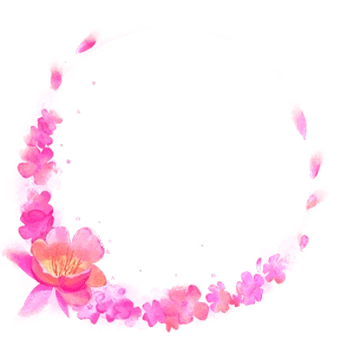
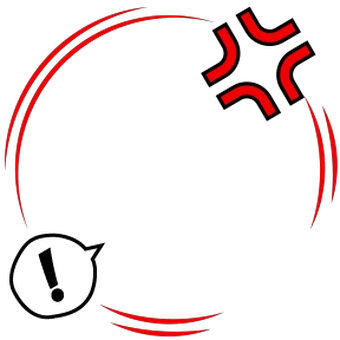
Profile Design: aktualny profil (Dark Roses), odznaki max-tier, podgląd nameplate'u w kontekście
Patryk zmienił swój profil na Discordzie na ciemny motyw z dekoracją Gothica
Dark Roses (Black) — dociągnięty nowy avatar/baner/dekoracja przez REST API
(nowywygladtest-bot), kolory karty przeliczone na ciemny/bursztynowy motyw.
Nameplate 'Dark Roses' namierzony na CDN (nameplates/gothica/dark_roses) po
kilkunastu próbach slugów. Dodany rząd odznak na maksymalnym poziomie: Nitro
(Opal), Nitro Gifting (Legend), Server Boosting (2 lata), wiek konta
(Primordial, 10+ lat) — realne ikony Discorda znalezione przez katalog
mezotv/discord-badges. Panel obok pokazuje teraz nazwę i uchwyt NAŁOŻONE na
teksturę nameplate'u (jak realnie wygląda w profilu), zamiast gołej tekstury.

diff --git a/styles.css b/styles.css
@@ -275,9 +275,9 @@ html:not(.has-device) .step { min-height: 0; padding-block: 36px; }
 .svc-art-profile { background: none; box-shadow: none; display: grid; gap: 18px; }
 @media (min-width: 861px) { .svc-art-profile { grid-template-columns: auto minmax(0, 1fr); align-items: start; } }
 .pf-mock {
-  /* kolory zdjęte z prawdziwego profilu na Discordzie (jasny motyw, sam ustawił) */
-  --pf-bg-1: #f3e2f2; --pf-bg-2: #eeddee; --pf-ink: #241a26; --pf-ink-2: #5a4a5c;
-  --pf-name-1: #e2a8dd; --pf-name-2: #c56ec0; --pf-chip-bg: #d9c2d8; --pf-line: rgba(40, 20, 45, .12);
+  /* kolory zdjęte z aktualnego profilu na Discordzie (ciemny motyw, Nameplate Dark Roses) */
+  --pf-bg-1: #100c0d; --pf-bg-2: #060404; --pf-ink: #f3f1ef; --pf-ink-2: #a89f9c;
+  --pf-name-1: #d0996a; --pf-name-2: #97613a; --pf-chip-bg: #1c1c1d; --pf-line: rgba(255, 255, 255, .1);
   width: 100%; max-width: 300px; margin-inline: auto; border-radius: 18px; overflow: hidden;
   background: linear-gradient(190deg, var(--pf-bg-1), var(--pf-bg-2));
   box-shadow: 0 0 0 1px var(--line), 0 30px 60px -24px rgba(0, 0, 0, .7);
@@ -293,18 +293,22 @@ html:not(.has-device) .step { min-height: 0; padding-block: 36px; }
 .pf-clan { display: inline-flex; align-items: center; gap: 3px; font: 700 11px/1 var(--body); color: var(--pf-ink); background: var(--pf-chip-bg); padding: 3px 7px 3px 4px; border-radius: 999px; }
 .pf-clan img { width: 14px; height: 14px; }
 .pf-status { font-size: 13px; color: var(--pf-ink-2); margin-top: 3px; }
+.pf-badges { display: flex; flex-wrap: wrap; gap: 6px; margin-top: 10px; }
+.pf-badges img { width: 22px; height: 22px; object-fit: contain; }
 .pf-about { margin-top: 14px; padding-top: 12px; border-top: 1px solid var(--pf-line); font-size: 13px; line-height: 1.5; color: var(--pf-ink); }
 .pf-about span { display: block; font: 700 10.5px/1 var(--body); letter-spacing: .06em; color: var(--pf-ink-2); margin-bottom: 6px; }
-.pf-extra { display: grid; gap: 14px; width: 100%; max-width: 300px; margin-inline: auto; }
+.pf-extra { display: grid; width: 100%; max-width: 300px; margin-inline: auto; }
 @media (min-width: 861px) { .pf-extra { max-width: none; } }
 .pf-extra-h { display: block; font: 700 11px/1 var(--body); letter-spacing: .06em; text-transform: uppercase; color: var(--muted); margin-bottom: 8px; }
-.pf-deco-list, .pf-palette { padding: 14px 16px; border-radius: 16px; background: var(--surface-2); box-shadow: 0 0 0 1px var(--line); }
-.pf-deco-list ul { display: grid; gap: 6px; }
-.pf-deco-list li { position: relative; padding-left: 14px; font-size: 13.5px; color: var(--ink-2); line-height: 1.4; }
-.pf-deco-list li::before { content: ""; position: absolute; left: 0; top: 7px; width: 5px; height: 5px; border-radius: 50%; background: var(--p2); }
-.pf-deco-list em { color: var(--ink-3); }
-.pf-swatches { display: flex; flex-wrap: wrap; gap: 8px; }
-.pf-swatches span { width: 28px; height: 28px; border-radius: 9px; background: var(--c); box-shadow: inset 0 0 0 1px rgba(255, 255, 255, .12); cursor: default; }
+.pf-nameplate-look { padding: 14px 16px 16px; border-radius: 16px; background: var(--surface-2); box-shadow: 0 0 0 1px var(--line); }
+.pf-np-demo { position: relative; aspect-ratio: 15 / 7; border-radius: 10px; overflow: hidden; background: #060404; box-shadow: 0 0 0 1px var(--line); }
+.pf-np-bg { position: absolute; inset: 0; width: 100%; height: 100%; object-fit: cover; }
+.pf-np-text { position: absolute; left: 14px; right: 14px; bottom: 10px; }
+.pf-np-name { font: 700 17px/1.2 var(--display); letter-spacing: -.02em; background: linear-gradient(100deg, #d0996a, #97613a); -webkit-background-clip: text; background-clip: text; color: transparent; text-shadow: 0 1px 12px rgba(0, 0, 0, .5); }
+.pf-np-handle { margin-top: 2px; font-size: 12.5px; color: #d8d2cd; text-shadow: 0 1px 8px rgba(0, 0, 0, .6); }
+.pf-np-caption { margin-top: 10px; font: 700 15px/1.2 var(--display); letter-spacing: -.01em; color: var(--ink); }
+.pf-np-caption em { color: var(--ink-2); font-weight: 500; }
+.pf-np-sub { margin-top: 6px; font-size: 13.5px; line-height: 1.5; color: var(--ink-2); }
 .svc-caption { grid-column: 1 / -1; font-size: 13px; color: var(--ink-3); text-align: center; }
 
 /* voice actorzy: fala dźwiękowa */

diff --git a/index.html b/index.html
@@ -145,29 +145,27 @@
             <span class="pf-nitro">NITRO</span>
             <p class="pf-name"><span class="pf-name-text">Yksoftiee</span><span class="pf-clan"><img src="assets/profil/badge-ss.webp" alt="">SS</span></p>
             <p class="pf-status">meow :3</p>
+            <div class="pf-badges">
+              <img src="assets/profil/badge-nitro.svg" alt="" title="Nitro">
+              <img src="assets/profil/badge-gift.webp" alt="" title="Nitro Gifting — poziom Legend (maks.)">
+              <img src="assets/profil/badge-boost.svg" alt="" title="Server Boosting — 2 lata (maks.)">
+              <img src="assets/profil/badge-age.svg" alt="" title="Wiek konta — Primordial, 10+ lat (maks.)">
+            </div>
             <div class="pf-about"><span>TUTAJ MNIE ZNAJDZIESZ</span>.gg/SakuraStudio</div>
           </div>
         </div>
         <div class="pf-extra">
-          <div class="pf-deco-list">
-            <span class="pf-extra-h">Dekoracje w&nbsp;tym profilu</span>
-            <ul>
-              <li>Kwiatowa ramka awatara <em>(Sakura)</em></li>
-              <li>Nameplate „I'm&nbsp;Watching Yooooou, Treat!”</li>
-              <li>Gradientowa nazwa</li>
-              <li>Znacznik gildii „SS” — Sakura Studio™</li>
-            </ul>
-          </div>
-          <div class="pf-palette">
-            <span class="pf-extra-h">Kolorystyka</span>
-            <div class="pf-swatches">
-              <span style="--c:#f3e2f2" title="#f3e2f2 — tło profilu"></span>
-              <span style="--c:#c56ec0" title="#c56ec0 — nazwa"></span>
-              <span style="--c:#fe4bad" title="#fe4bad — dekoracja"></span>
-              <span style="--c:#d183ee" title="#d183ee — nameplate"></span>
-              <span style="--c:#472d67" title="#472d67 — avatar"></span>
-              <span style="--c:#f4c3dd" title="#f4c3dd — baner"></span>
+          <div class="pf-nameplate-look">
+            <span class="pf-extra-h">Profil z&nbsp;tym nameplate'em</span>
+            <div class="pf-np-demo">
+              <img class="pf-np-bg" src="assets/profil/nameplate-look.webp" alt="">
+              <div class="pf-np-text">
+                <p class="pf-np-name">Yksoftiee</p>
+                <p class="pf-np-handle">yksoftiee&nbsp;• she/her</p>
+              </div>
             </div>
+            <p class="pf-np-caption">Dark Roses <em>(Black)</em></p>
+            <p class="pf-np-sub">Kolekcja Gothica — ciernie i&nbsp;róże w&nbsp;tle, dokładnie tak jak stoją za nazwą w&nbsp;profilu obok.</p>
           </div>
         </div>
         <p class="svc-caption">Nasz przykład — Discord: yksoftiee, serwer Sakura Studio™</p>
